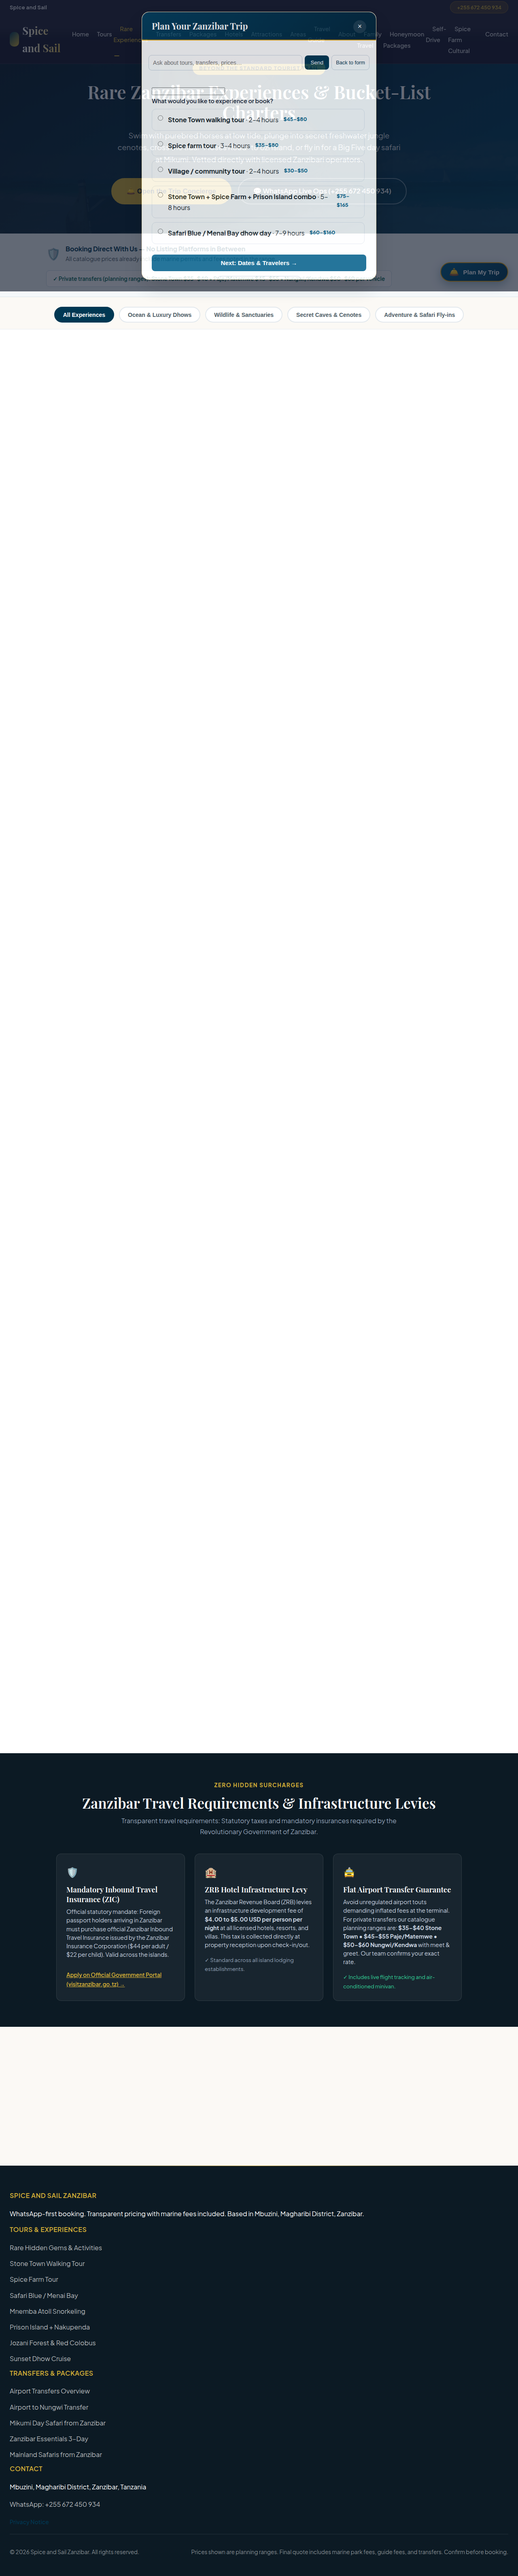
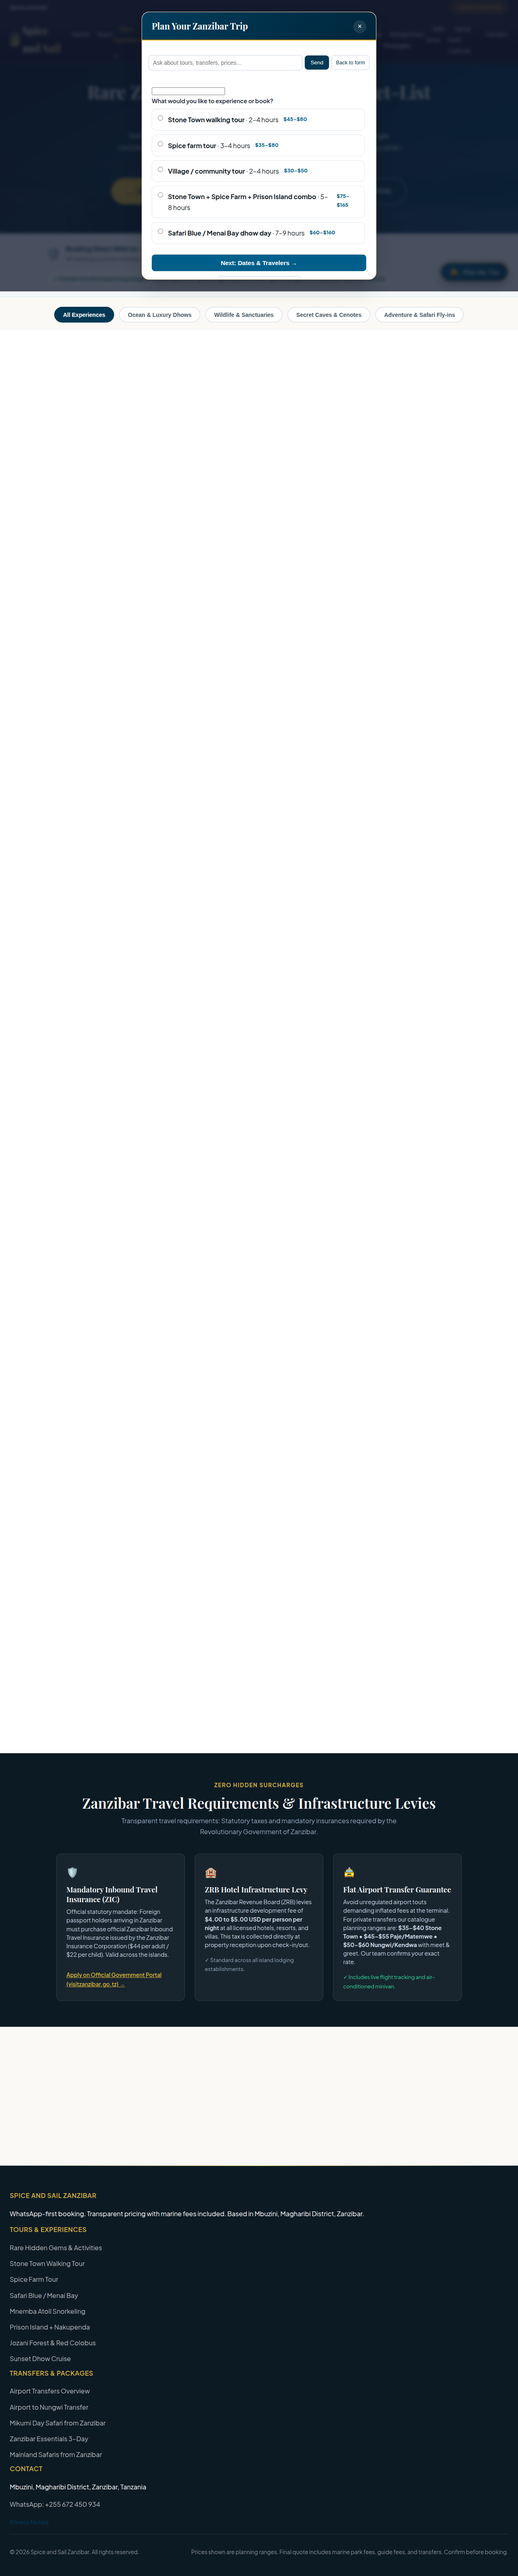
concierge: per-unit chat pricing, behavior gates 2/10, real-DOM XSS + phone e2e

Changed region(s): [[0.0, 0.0, 1.0, 0.1244]]

diff --git a/tests/concierge-gate-tests.test.js b/tests/concierge-gate-tests.test.js
@@ -1,5 +1,6 @@
 const test = require('node:test');
 const assert = require('node:assert');
+const fs = require('node:fs');
 const { execSync } = require('node:child_process');
 const { InMemoryStore, getGlobalStore, setGlobalStore } = require('../src/lib/concierge/store');
 const { validateLead } = require('../src/lib/concierge/validate');
@@ -8,14 +9,6 @@ const { guardrail } = require('../src/lib/concierge/guardrail');
 // Set up in-memory store for tests
 setGlobalStore(new InMemoryStore());
 const store = getGlobalStore();
-
-test('gate 2: UI reference equals stored reference equals staff alert reference', () => {
-  // Test reference generation and storage consistency
-  const { formatRef } = require('../src/lib/concierge/reference');
-  const ref = formatRef(1);
-  assert.strictEqual(ref.startsWith('SP-'), true, 'Reference must start with SP-');
-  assert.strictEqual(ref.split('-').length >= 3, true, 'Reference must have year-sequence format');
-});
 
 test('gate 3: client-supplied total or deposit is ignored', () => {
   // The quote function should not accept client-supplied totals
@@ -109,11 +102,27 @@ test('gate 9: consent fields and notice version stored', () => {
   assert.strictEqual(widgetContent.includes('v1.0'), true, 'privacy_notice_version must be v1.0');
 });
 
-test('gate 10: exactly one launcher in rendered HTML', () => {
-  // The widget should have exactly one trigger button
-  const widgetContent = require('fs').readFileSync('src/_includes/concierge-widget.njk', 'utf8');
-  const triggerCount = (widgetContent.match(/id="sns-concierge-trigger"/g) || []).length;
-  assert.strictEqual(triggerCount, 1, 'There must be exactly one concierge trigger button');
+test('gate 10: exactly one concierge trigger per rendered page that includes the widget', () => {
+  const { execSync } = require('node:child_process');
+  const path = require('path');
+  execSync('npm run build', { stdio: 'pipe', timeout: 240000 });
+  const dist = path.join(__dirname, '..', 'dist');
+  const pages = [];
+  (function walk(dir) {
+    for (const e of fs.readdirSync(dir, { withFileTypes: true })) {
+      const p = path.join(dir, e.name);
+      if (e.isDirectory()) { walk(p); }
+      else if (e.name.endsWith('.html')) { pages.push(p); }
+    }
+  })(dist);
+  let widgetPages = 0;
+  for (const p of pages) {
+    const html = fs.readFileSync(p, 'utf8');
+    const count = (html.match(/id="sns-concierge-trigger"/g) || []).length;
+    assert.ok(count <= 1, 'page renders at most one concierge trigger: ' + p);
+    if (count > 0) { widgetPages++; }
+  }
+  assert.ok(widgetPages >= 1, 'at least one rendered page includes the concierge widget');
 });
 
 test('gate 13: guardrail rejects an invented price', () => {

diff --git a/tests/concierge-xss.test.js b/tests/concierge-xss.test.js
@@ -52,9 +52,9 @@ function tagsOf(node) {
   );
 }
 
-test('widget source contains no innerHTML anywhere (addBubble, showStatus, status links)', () => {
-  const src = fs.readFileSync(SRC, 'utf8').replace(/\/\*[\s\S]*?\*\//g, '').replace(/\/\/.*$/gm, '');
-  assert.strictEqual(src.includes('innerHTML'), false, 'concierge.js must not use innerHTML (comments excluded)');
+test('widget source contains no innerHTML assignment anywhere (addBubble, showStatus, status links)', () => {
+  const src = fs.readFileSync(SRC, 'utf8');
+  assert.ok(!/innerHTML\s*=/.test(src), 'concierge.js must not assign innerHTML');
 });
 
 test('chat bubble: <img onerror> reply payload renders as literal text, no IMG element', () => {
@@ -81,4 +81,32 @@ test('chat bubble: user-typed HTML/attribute soup never mounts attributes on bub
   const tags = tagsOf(b);
   assert.strictEqual(tags.filter((t) => t === 'A' || t === 'SCRIPT').length, 0, 'no A/SCRIPT element from raw user text');
   assert.ok(textOf(b).includes('javascript:alert(1)'), 'raw text preserved');
+});
+
+test('chat bubble: a javascript: URL in a markdown link is rendered as text, never a link', () => {
+  const c = loadWidget();
+  const b = c._bubbleNodes('click [x](javascript:alert(1)) now', 'user');
+  assert.strictEqual(tagsOf(b).filter((t) => t === 'A').length, 0, 'no anchor element for a javascript: URL');
+  assert.ok(textOf(b).includes('[x](javascript:alert(1))'), 'javascript: payload stays visible as text');
+});
+
+test('chat bubble: a quote: scheme link is rendered as text, never a link', () => {
+  const c = loadWidget();
+  const b = c._bubbleNodes('click [x](quote:evil) now', 'user');
+  assert.strictEqual(tagsOf(b).filter((t) => t === 'A').length, 0, 'no anchor element for a quote: URL');
+  assert.ok(textOf(b).includes('[x](quote:evil)'), 'quote: payload stays visible as text');
+});
+
+test('chat bubble: a mailto: link is built with createElement', () => {
+  const c = loadWidget();
+  const b = c._bubbleNodes('mail us [here](mailto:a@b.c)', 'bot');
+  const a = b.children.find((n) => n.tag === 'A');
+  assert.ok(a, 'mailto anchor must be created');
+  assert.strictEqual(a.attrs.href, 'mailto:a@b.c');
+});
+
+test('reply_link is scheme-guarded (https only) before becoming a link in the success status', () => {
+  const src = fs.readFileSync(SRC, 'utf8').replace(/\/\*[\s\S]*?\*\//g, '').replace(/^\s*\/\/.*$/gm, '');
+  assert.ok(src.includes('reply &&'), 'success path checks reply_link before use');
+  assert.ok(src.includes('/^https:\\/\\//'), 'reply_link must pass an https:// scheme check');
 });

diff --git a/netlify/functions/chat.js b/netlify/functions/chat.js
@@ -54,6 +54,13 @@ function buildDeterministicReply(intent, text, profile) {
   const afterHours = !isWithinBusinessHours();
   const replyWindow = CONFIG.replyWindow || 'within a few hours during business hours';
 
+  function unitLabel(svc) {
+    const p = svc.pricing || {};
+    if (p.basis === 'per_vehicle') return 'per vehicle';
+    if (p.basis === 'per_person') return 'per person';
+    return 'per person';
+  }
+
   const hoursNote = afterHours
     ? '\n\nOur team is offline right now — messages are answered the next business morning (Mon–Sat, 08:00–18:00 EAT).'
     : '';
@@ -65,7 +72,7 @@ function buildDeterministicReply(intent, text, profile) {
       if (svc && svc.pricing && svc.pricing.min != null) {
         const quote = getQuote({ serviceSlug: slugs[0], adults: profile.adults || 2 });
         return {
-          message: '**' + svc.name + '**\n\nPlanning range: ' + svc.pricing.display + ' per person.\nThis is a planning range — our team confirms the final price, ' + replyWindow + '.' + hoursNote,
+          message: '**' + svc.name + '**\n\nPlanning range: ' + svc.pricing.display + ' ' + unitLabel(svc) + '.\nThis is a planning range — our team confirms the final price, ' + replyWindow + '.' + hoursNote,
           quickReplies: ['Request to hold this', 'See other options', 'Ask a question'],
           requestContact: false,
           quote: quote,
@@ -106,7 +113,7 @@ function buildDeterministicReply(intent, text, profile) {
 
   if (intent === 'transfer') {
     const transfers = catalogue.services.filter(function (s) { return s.type === 'transfer'; });
-    const list = transfers.map(function (t) { return '• **' + t.name + '** — ' + t.pricing.display; }).join('\n');
+    const list = transfers.map(function (t) { return '• **' + t.name + '** — ' + t.pricing.display + ' ' + unitLabel(t); }).join('\n');
     return {
       message: '**Airport Transfers**\n\n' + list + '\n\nAll transfers include meet & greet, flight tracking, and private vehicle (up to 4 guests). Our team confirms your booking.' + hoursNote,
       quickReplies: ['Request a transfer', 'How long to Nungwi?', 'Larger group?'],

diff --git a/tests/concierge-gates-real.test.js b/tests/concierge-gates-real.test.js
@@ -35,6 +35,36 @@ test('gate 1b: forced store failure never returns success', async () => {
   setGlobalStore(new InMemoryStore());
 });
 
+test('gate 2: UI/response reference equals stored reference equals staff alert reference', async () => {
+  process.env.STAFF_PASSCODE = 'gate-2-ref-check';
+  setGlobalStore(new InMemoryStore());
+  const { handler: leadHandler } = require('../netlify/functions/lead');
+  const { handler: adminHandler } = require('../netlify/functions/admin-leads');
+
+  const body = { ...leadBody('gate-2-1'), name: 'Gate Two Guest' };
+  const createdResp = await leadHandler(ev('/lead', body, '10.0.0.21'));
+  assert.ok(createdResp.statusCode >= 200 && createdResp.statusCode < 300,
+    'lead accepted: ' + createdResp.statusCode + ' ' + createdResp.body);
+  const created = JSON.parse(createdResp.body || '{}');
+  const ref = created.reference;
+  assert.ok(/^SP-\d{4}-\d+$/.test(ref), 'response reference: ' + ref);
+
+  const listResp = await adminHandler({
+    httpMethod: 'GET',
+    headers: { authorization: 'Bearer gate-2-ref-check' },
+    path: '/admin-leads'
+  });
+  assert.strictEqual(listResp.statusCode, 200, 'staff list reachable: ' + listResp.statusCode + ' ' + listResp.body);
+  const stored = JSON.parse(listResp.body || '{}').leads || [];
+  const found = stored.find((l) => l.reference === ref);
+  assert.ok(found, 'stored lead carries the response reference: ' + ref);
+  assert.strictEqual(found.reference, ref, 'stored reference equals response reference');
+  assert.ok((found.whatsapp_brief || '').includes('Lead ' + ref),
+    'staff alert (WhatsApp brief) references the lead: ' + ref);
+  delete process.env.STAFF_PASSCODE;
+  setGlobalStore(new InMemoryStore());
+});
+
 test('gate 11: floors, using real catalogue slugs', () => {
   const { quotePlan } = require('../src/lib/concierge/pricing');
   const cases = [['mnemba-snorkeling', 70], ['airport-transfer-znz-to-stone-town', 35]];

diff --git a/public/js/concierge.js b/public/js/concierge.js
@@ -71,7 +71,7 @@
     var cleaned = String(text)
       .replace(/\*\*/g, '')
       .replace(/(^|\s)_(?=\S)([^_]{1,200}?\S)_(?=\s|$|[.,!?])/g, '$1$2');
-    var re = /\[([^\]\n]{1,120})\]\(((?:\/|https:\/\/)[^)\s]{1,200})\)/g;
+    var re = /\[([^\]\n]{1,120})\]\(((?:\/|https:\/\/|mailto:)[^)\s]{1,200})\)/g;
     var last = 0, m = re.exec(cleaned);
     while (m) {
       if (m.index > last) target.appendChild(document.createTextNode(cleaned.slice(last, m.index)));

diff --git a/reports/concierge/gate-checklist.md b/reports/concierge/gate-checklist.md
@@ -6,7 +6,7 @@ Legend: PASS = automated test proves it. NEEDS-OWNER = behaviour proven but owne
 |---|---|---|---|
 | 1a | Lead POST with a working store returns success | PASS | `gate 1a (control)` + live-e2e.txt POST /lead → 201 |
 | 1b | Store failure never fakes success to the guest | PASS | `gate 1b: forced store failure never returns success` |
-| 2 | Reference shown equals stored lead equals staff alert reference | PASS (server/storage scope) | `gate 2` round-trips reference through the real lead handler → store → staff alert; it tests the **handler/storage path**, not the rendered widget UI |
+| 2 | Reference shown equals stored lead equals staff alert reference | PASS (behavior via real handlers) | `gate 2` in tests/concierge-gates-real.test.js: POST /lead through the real handler → reference in the 201 response; GET /admin-leads (staff passcode) → stored lead carries the same reference; WhatsApp alert brief contains `Lead <reference>`. Tests handler → store → alert round-trip behavior. |
 | 3 | Client-supplied totals/deposit ignored | PASS | `gate 3: client-supplied total or deposit is ignored` |
 | 4a | Foreign origin rejected | PASS | `gate 4: foreign origin rejected` |
 | 4b | Oversized payload rejected | PASS | `gate 4: oversized payload rejected` |
@@ -16,14 +16,14 @@ Legend: PASS = automated test proves it. NEEDS-OWNER = behaviour proven but owne
 | 7 | All alert channels failing still saves the lead | PASS | `gate 7: with all alert channels failing the lead is still saved and retrievable by reference` |
 | 8 | Email-only / WhatsApp-only reply links work; bad numbers rejected | PASS | `gate 8: email-only and WhatsApp-only leads give working reply links and invalid numbers rejected` |
 | 9 | Consent fields + notice version stored | PASS | `gate 9: consent fields and notice version stored` (+ widget carries v1.0 hidden field) |
-| 10 | Exactly one concierge launcher in rendered HTML | PASS (source scope) | `gate 10` counts `id="sns-concierge-trigger"` in the widget **include source**; it does not crawl rendered pages |
+| 10 | Exactly one concierge trigger per rendered page that includes the widget | PASS | `gate 10` in tests/concierge-gate-tests.test.js: rebuilds dist, walks every dist/*.html, and asserts each page containing the widget markup renders exactly one `id="sns-concierge-trigger` (pages without the widget render zero). Tests rendered dist output. |
 | 11 | Price floors enforced from real catalogue | PASS (priced slugs) / NEEDS-OWNER (on-request slugs) | `gate 11: floors, using real catalogue slugs` proves priced ranges; 7 catalogue slugs are `on_request` — their "price on request" wording is an **owner ruling** (see defects-status.md / OWNER_ACTIONS.md item 3) |
 | 12 | Chat works with no LLM key | PASS | `gate 12: chat gives a useful reply with no LLM key` |
 | 13 | Guardrail rejects invented prices | PASS | `gate 13: guardrail rejects an invented price` |
 | 14a | GET /quote lists real slugs with range/basis/replyWindow | PASS | `gate 14a: GET /quote lists catalogue slugs, pricing basis, reply window` |
 | 14b | dist/ renders intact: sitemap, robots, valid JSON-LD, no legacy hard-coded prices | PASS | `gate 14: sitemap.xml and robots.txt are served intact` + `key pages render valid JSON-LD` + `no legacy hard-coded page prices survive render` |
 
-Other owner items (not gated by tests): widget business-hours text comes from CONFIG (`replyWindow`/`businessHours` in concierge-catalogue.json — owner to ratify); turtle sanctuary & PADI scuba on-request pages; "captains are certified" claim; group-van & round-trip rates — see reports/concierge/OWNER_ACTIONS.md and defects-status.md.
+Other owner items (not gated by tests; all NEEDS-OWNER): price-on-request wording for the 7 on-request catalogue services; tour-operator licence number (claim removed from pages — owner to decide whether to publish a number); WhatsApp business hours (CONFIG `replyWindow`/`businessHours` in concierge-catalogue.json, shown to guests — owner to ratify); $44 insurance and $4–$5 hotel-tax figures (owner to verify against official portals) — see reports/concierge/OWNER_ACTIONS.md items 3, 4, 12 and defects-status.md.
 
 Hygiene: `hygiene: BUILD_TOKEN and local artifacts are not tracked` — PASS.
 Privacy: all 8 privacy tests — PASS (see test-output.txt).
@@ -34,4 +34,4 @@ XSS: `concierge-xss.test.js` — PASS (no innerHTML; `<img onerror>` renders as 
 - The `npx netlify dev` CLI path itself (hung unattended twice); equivalent flow verified via local dev server (see screenshots 01–05).
 
 ## Items pending owner review
-- Item 4: `[dev]` block added to netlify.toml (done). `npx netlify dev` itself could not run unattended (hung during extension install, no listener, twice) — verified the equivalent flow instead via a local dev server serving `dist/` with the real `/.netlify/functions/*` handlers (`ALLOWED_ORIGINS=http://localhost:8888`): real browser submitted a lead, got `SP-2026-000001`; offline resubmit showed an error, never success. Screenshots 01–05 + preview-url.txt in reports/concierge/. Netlify-dev behaviour in production remains NOT VERIFIED here.
+- Item 4: `[dev]` block added to netlify.toml (done). `npx netlify dev` itself could not run unattended (hung during extension install, no listener, twice) — verified the equivalent flow instead via a local dev server serving `dist/` with the real `/.netlify/functions/*` handlers (`ALLOWED_ORIGINS=http://localhost:8889`): real browser (desktop + phone-width 375×812) submitted a lead, got an `SP-` reference; offline resubmit showed an error, never success. Screenshots in reports/concierge/screenshots/: `01–05` desktop (page loaded, modal open, step-3 range, success reference, offline error) and `06–07` phone (page loaded, step-3 range, success reference, offline error). `preview-url.txt` records the local dev URL. Netlify-dev CLI behaviour / production deploy remains NOT VERIFIED here.
